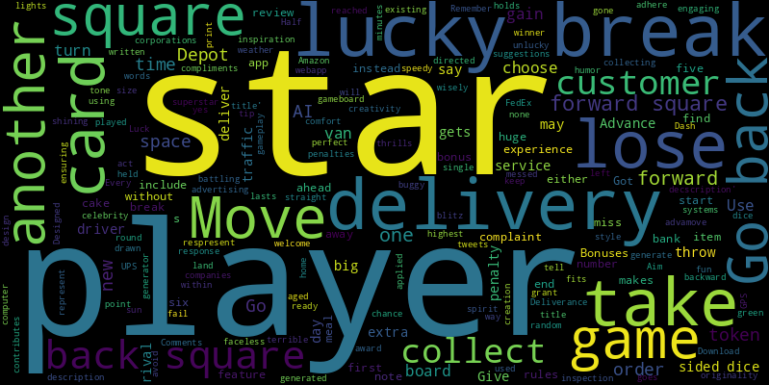
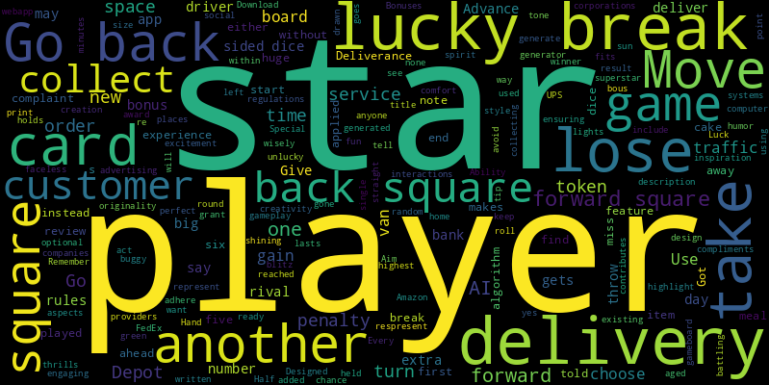
Import fixes, automake wordcloud

diff --git a/tools/mongo_logger.py b/tools/mongo_logger.py
@@ -1,9 +1,14 @@
 import streamlit as st
 import os
 import argparse
+import json
 import dataclasses
 from datetime import datetime
 from pymongo import MongoClient
+try:
+    from .settings import BACKUP_DIR
+except ImportError:
+    from settings import BACKUP_DIR
 
 @dataclasses.dataclass
 class MongoConfig:
@@ -72,6 +77,26 @@ class MongoConfig:
             print(record)
         print(f"Retrieved all {len(records):,} records from MongoDB.")
 
+    def download_backup(self, name="mongo_db_backup"):
+        # create backup folder if needed
+        if not os.path.exists(BACKUP_DIR):
+            os.makedirs(BACKUP_DIR)
+        # create a filename with the current date and time
+        filename = os.path.join(BACKUP_DIR, f"{name}_{datetime.now().strftime('%Y-%m-%d_%H-%M-%S')}.json")
+        records = self.get_records()
+        with open(filename, 'w') as file:
+            for record in records:
+                # Use json.dumps with the static method for datetime conversion
+                json_record = json.dumps(record, default=self.datetime_converter, ensure_ascii=False)
+                file.write(json_record + '\n')
+        size = os.path.getsize(filename)
+        print(f"Backup of {len(records):,} records saved to {filename} ({size/1024:.2f} KB).")
+
+    @staticmethod
+    def datetime_converter(o):
+        if isinstance(o, datetime):
+            return o.isoformat()  # Using ISO 8601 format for datetime objects
+
 mongo_db = MongoConfig()
 
 
@@ -81,6 +106,7 @@ if __name__ == "__main__":
     parser.add_argument('-c', '--cards', action='store_true', help='Show cards logged to MongoDB.')    
     parser.add_argument('-l', '--log', type=str, help='Log the generated text to MongoDB.')
     parser.add_argument('-r', '--retrieve', action='store_true', help='Retrieve all records from MongoDB.')
+    parser.add_argument('-b', '--backup', action='store_true', help='Backup all records from MongoDB to a JSON file.')
     args = parser.parse_args()
 
     if args.log:
@@ -98,3 +124,7 @@ if __name__ == "__main__":
     if args.cards:
         # get all records that have a value of tag = generated_text
         mongo_db.report_by_tag("generated_text")
+
+    if args.backup:
+        # download all records to a JSON file
+        mongo_db.download_backup()

diff --git a/tools/wordcloud_tool.py b/tools/wordcloud_tool.py
@@ -1,5 +1,10 @@
+import os
 from wordcloud import WordCloud, STOPWORDS
 import matplotlib.pyplot as plt
+try:
+    from .settings import IMAGES_DIR, FULL_PROMPT
+except ImportError:
+    from settings import IMAGES_DIR, FULL_PROMPT
 
 def create_wordcloud(text, stopwords=None, filename='wordcloud.png'):
     """
@@ -28,8 +33,15 @@ def create_wordcloud(text, stopwords=None, filename='wordcloud.png'):
     plt.savefig(filename, bbox_inches='tight', pad_inches=0)
     plt.close()
 
+def make_game_wordcloud(text=FULL_PROMPT):
+    # Create a word cloud from the text
+    output = os.path.join(IMAGES_DIR, 'wordcloud.png')
+    create_wordcloud(text, filename=output)
+    print(f"Word cloud image saved to {output}")
+
 # Example usage
 if __name__ == "__main__":
     example_text = "This is a sample text for generating a word cloud. Word clouds are visual representations of word frequency."
     custom_stopwords = {'for', 'a', 'are'}  # Example of additional stopwords
-    create_wordcloud(example_text, stopwords=custom_stopwords, filename='example_wordcloud.png')
+    # create_wordcloud(example_text, stopwords=custom_stopwords, filename='example_wordcloud.png')
+    make_game_wordcloud()

diff --git a/tools/settings.py b/tools/settings.py
@@ -1,6 +1,5 @@
 import streamlit as st
 import os
-from .wordcloud_tool import create_wordcloud
 
 """
 Global settings & helpers for the Random Card Generator app.
@@ -18,6 +17,8 @@ IMAGES_DIR = os.path.join(BASE_DIR, 'images')
 WORDCLOUD_PATH = os.path.join(IMAGES_DIR, 'wordcloud.png')
 
 GITHIB_REPO_URL = "https://github.com/rdubar/random-card"
+
+BACKUP_DIR = os.path.join(BASE_DIR, 'backups')
 
 try:
     OPEN_AI_API_KEY = api_key = st.secrets["openai"]["openai_api_key"] if "openai" in st.secrets else os.environ.get('OPENAI_API_KEY', '')
@@ -63,21 +64,12 @@ def download_game_board_button():
                 mime="application/octet-stream"
             )   
 
-def make_wordcloud(text):
-    # Create a word cloud from the text
-    output = os.path.join(IMAGES_DIR, 'wordcloud.png')
-    create_wordcloud(text, filename=output)
-
 PROMPT = load_data('prompt.txt')
 RULES = load_data('rules.md')
 CARDS = load_data('delivery.txt')
 SPECIAL = load_data('special.md')
 FULL_PROMPT = PROMPT + RULES + CARDS
 
-
-if __name__ == "__main__":
-    make_wordcloud(FULL_PROMPT)
-    print("Word cloud created successfully.")
 
 
 

diff --git a/pages/5_Resources.py b/pages/5_Resources.py
@@ -1,6 +1,9 @@
 import streamlit as st
+import os
 from tools.settings import PROMPT, CARDS, OPEN_AI_API_KEY, WORDCLOUD_PATH, show_gitub_repo_link
 from tools.mongo_logger import mongo_db
+from tools.wordcloud_tool import make_game_wordcloud
+
 
 st.set_page_config(page_title="Delivery Game", page_icon=":game_die:")
 
@@ -53,13 +56,18 @@ if records:
     st.text_area(f"There have been {count:,} AI Generated Cards", text, height=400)
 
 
+if not os.path.exists(WORDCLOUD_PATH):
+    make_game_wordcloud()
+    
 st.header("Wordcloud")
 
 """
 This is a wordcloud of all of the text in the game:
 """
-
-st.image(WORDCLOUD_PATH)
+try:
+    st.image(WORDCLOUD_PATH)
+except Exception as e:
+    st.write(f"Error: {e}")
 
 
 # link to top of page

diff --git a/README.md b/README.md
@@ -20,7 +20,7 @@ Have fun, and modify for your own use as needed.
 - **Extensible**: Add your own fortunes to the list by simply editing a text file.
 - **Logging**: The time, text and AI model of any AI generated cards are logged on MongoDB.
 - **Failsafe**: If openai and/or MongoDB details are not provided, the respective features are not shown to the user.
-- **Wordcloud**: A wordcloud of words in the game (run `python tools/settings.py` to update).
+- **Wordcloud**: A wordcloud of words in the game (run `python tools/wordcloud_tool.py` to update).
 Note that no personal or user data is recorded - just the time the button was pressed, and the text it generated. 
 
 ## Getting Started
